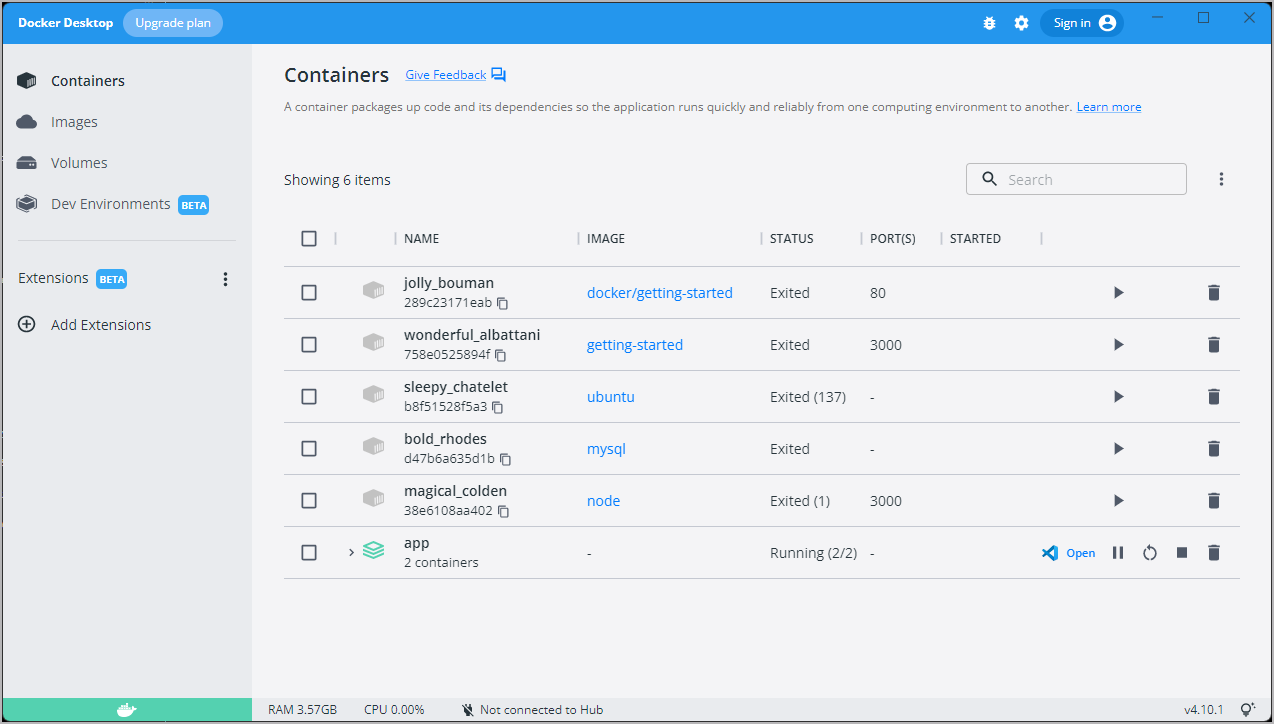
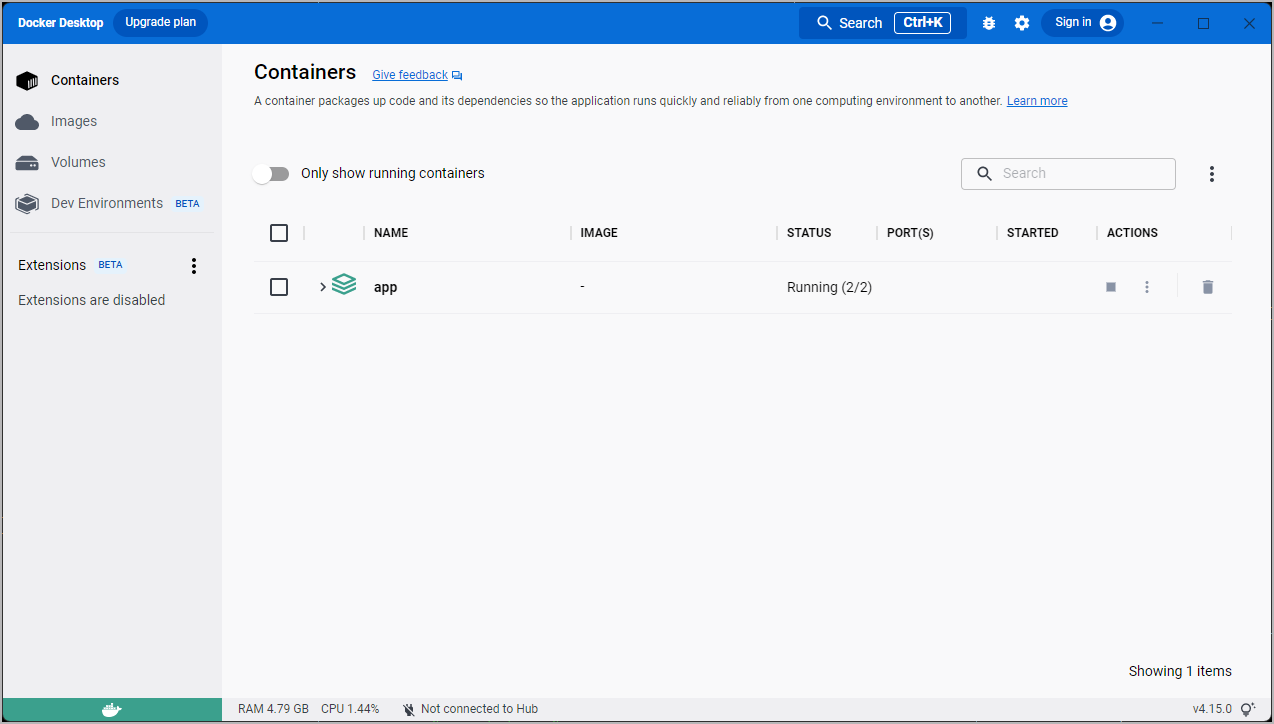
update/remove DD screenshots

diff --git a/get-started/07_multi_container.md b/get-started/07_multi_container.md
@@ -253,11 +253,6 @@ With all of that explained, let's start our dev-ready container!
 
     Obviously, your table will look different because it has your items. But, you should see them stored there!
 
-If you take a quick look at the Docker Dashboard, you'll see that we have two app containers running. But, there's
-no real indication that they are grouped together in a single app. We'll see how to make that better shortly!
-
-![Docker Dashboard showing two ungrouped app containers](images/dashboard-multi-container-app.png)
-
 ## Next steps
 
 At this point, you have an application that now stores its data in an external database running in a separate
